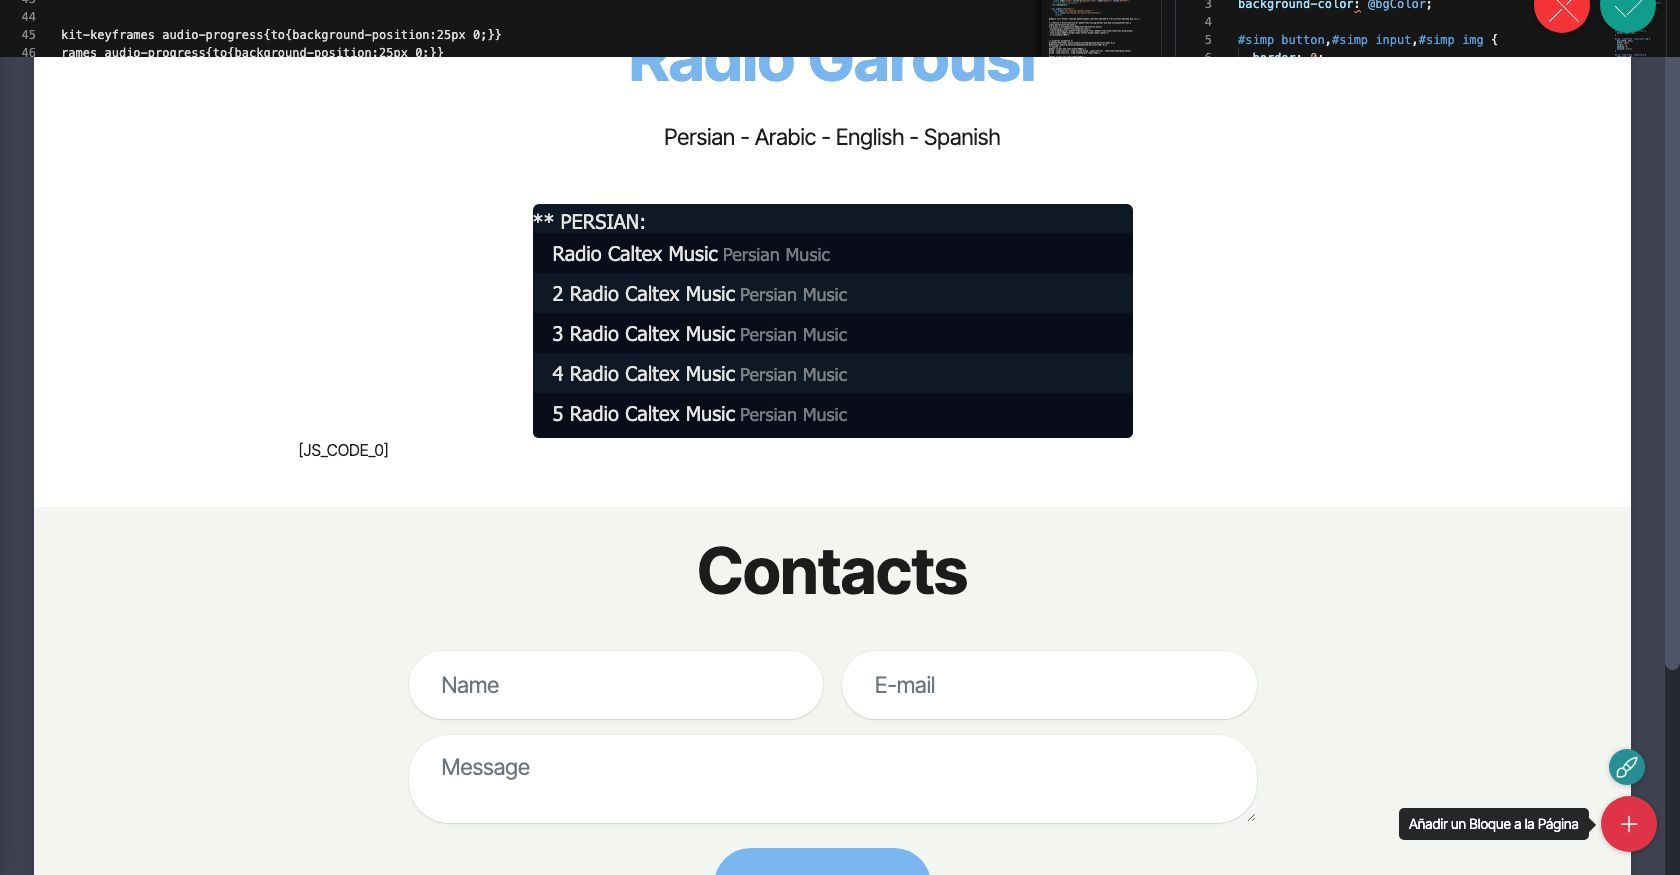
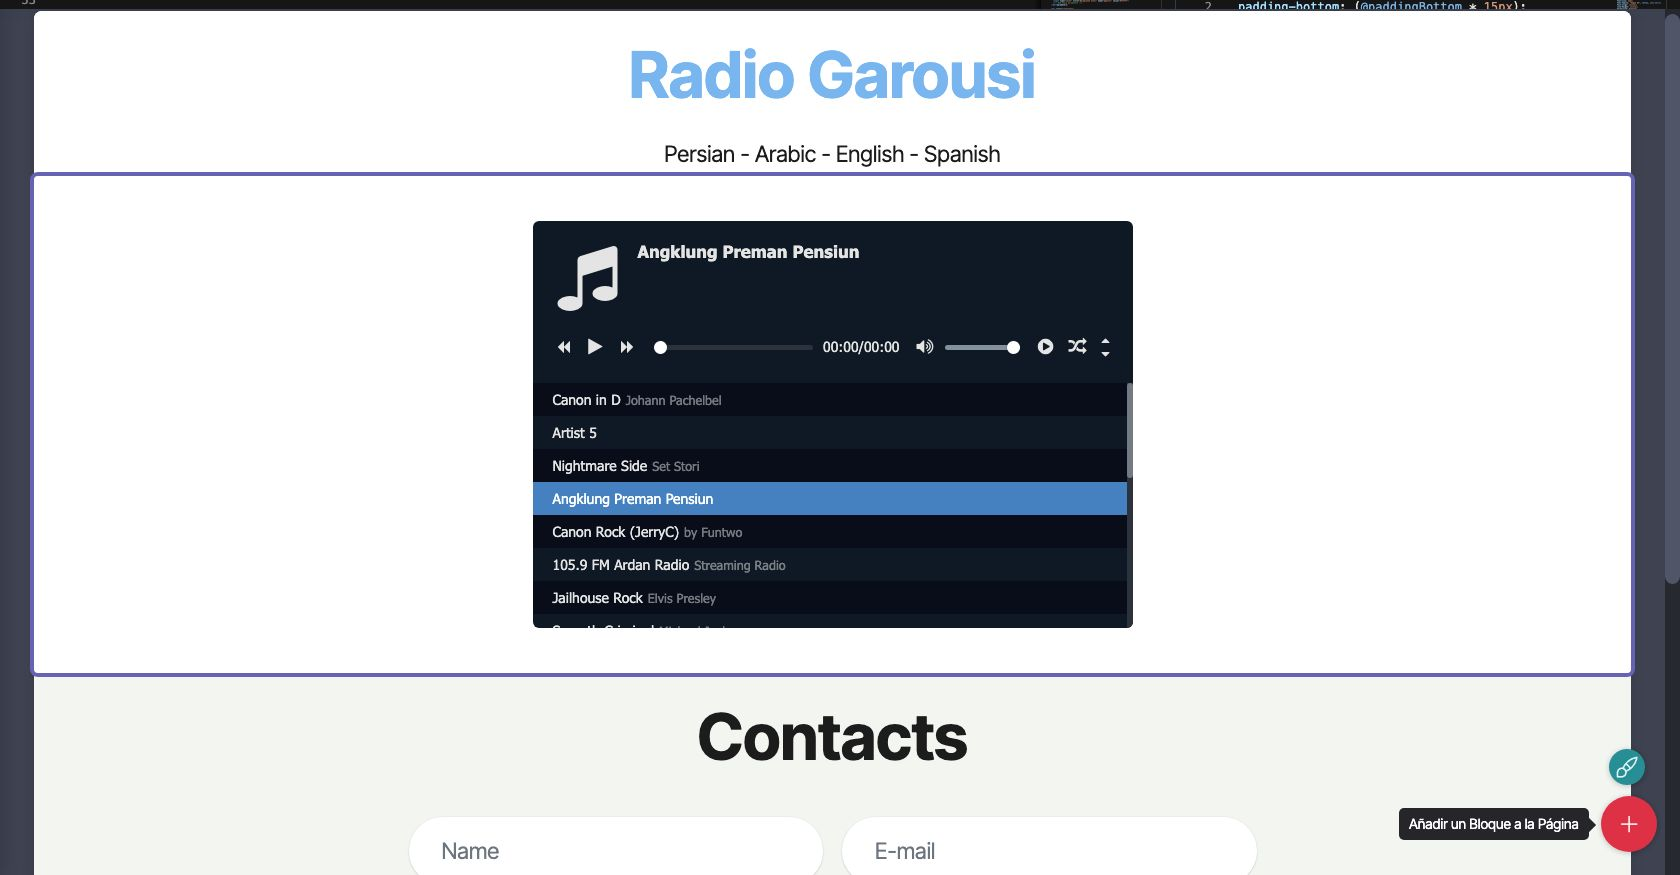
1

diff --git a/assets/mobirise/css/mbr-additional.css b/assets/mobirise/css/mbr-additional.css
@@ -801,19 +801,19 @@ a {
 .cid-uVRa9ExS3o .mbr-section-subtitle {
   color: #232323;
 }
-.cid-uVRO7bfeKh {
+.cid-uVRVEUpCmg {
   padding-top: 45px;
   padding-bottom: 45px;
   background-color: #ffffff;
 }
-.cid-uVRO7bfeKh #simp button,
-.cid-uVRO7bfeKh #simp input,
-.cid-uVRO7bfeKh #simp img {
+.cid-uVRVEUpCmg #simp button,
+.cid-uVRVEUpCmg #simp input,
+.cid-uVRVEUpCmg #simp img {
   border: 0;
 }
-.cid-uVRO7bfeKh #simp {
+.cid-uVRVEUpCmg #simp {
   max-width: 600px;
-  font-size: 20px;
+  font-size: 14px;
   font-family: "Segoe UI", Tahoma, sans-serif;
   text-align: initial;
   line-height: initial;
@@ -823,31 +823,31 @@ a {
   border-radius: 6px;
   overflow: hidden;
 }
-.cid-uVRO7bfeKh #simp .simp-album {
+.cid-uVRVEUpCmg #simp .simp-album {
   padding: 20px 25px 5px;
 }
-.cid-uVRO7bfeKh #simp .simp-album .simp-cover {
+.cid-uVRVEUpCmg #simp .simp-album .simp-cover {
   margin-right: 20px;
 }
-.cid-uVRO7bfeKh #simp .simp-album .simp-cover img {
+.cid-uVRVEUpCmg #simp .simp-album .simp-cover img {
   max-width: 80px;
   width: 100%;
   margin: 0;
   padding: 0;
   display: block;
 }
-.cid-uVRO7bfeKh #simp .simp-album .simp-title {
+.cid-uVRVEUpCmg #simp .simp-album .simp-title {
   font-size: 120%;
   font-weight: bold;
 }
-.cid-uVRO7bfeKh #simp .simp-album .simp-artist {
+.cid-uVRVEUpCmg #simp .simp-album .simp-artist {
   font-size: 90%;
   color: #6c7883;
 }
-.cid-uVRO7bfeKh #simp .simp-controls {
+.cid-uVRVEUpCmg #simp .simp-controls {
   padding: 15px;
 }
-.cid-uVRO7bfeKh #simp .simp-controls button {
+.cid-uVRVEUpCmg #simp .simp-controls button {
   font-size: 130%;
   width: 32px;
   height: 32px;
@@ -858,25 +858,25 @@ a {
   border: 0;
   border-radius: 3px;
 }
-.cid-uVRO7bfeKh #simp .simp-controls button[disabled] {
+.cid-uVRVEUpCmg #simp .simp-controls button[disabled] {
   color: #636469;
   cursor: initial;
 }
-.cid-uVRO7bfeKh #simp .simp-controls button:not([disabled]):hover {
+.cid-uVRVEUpCmg #simp .simp-controls button:not([disabled]):hover {
   background: #4082bc;
   color: #fff;
 }
-.cid-uVRO7bfeKh #simp .simp-controls .simp-prev,
-.cid-uVRO7bfeKh #simp .simp-controls .simp-next {
+.cid-uVRVEUpCmg #simp .simp-controls .simp-prev,
+.cid-uVRVEUpCmg #simp .simp-controls .simp-next {
   font-size: 100%;
 }
-.cid-uVRO7bfeKh #simp .simp-controls .simp-tracker,
-.cid-uVRO7bfeKh #simp .simp-controls .simp-volume {
+.cid-uVRVEUpCmg #simp .simp-controls .simp-tracker,
+.cid-uVRVEUpCmg #simp .simp-controls .simp-volume {
   flex: 1;
   margin-left: 10px;
   position: relative;
 }
-.cid-uVRO7bfeKh #simp .simp-controls .simp-buffer {
+.cid-uVRVEUpCmg #simp .simp-controls .simp-buffer {
   position: absolute;
   top: 50%;
   right: 0;
@@ -885,7 +885,7 @@ a {
   margin-top: -2.5px;
   border-radius: 100px;
 }
-.cid-uVRO7bfeKh #simp .simp-controls .simp-loading .simp-buffer {
+.cid-uVRVEUpCmg #simp .simp-controls .simp-loading .simp-buffer {
   -webkit-animation: audio-progress 1s linear infinite;
   animation: audio-progress 1s linear infinite;
   background-image: linear-gradient(-45deg, #000000 25%, transparent 25%, transparent 50%, #000000 50%, #000000 75%, transparent 75%, transparent);
@@ -893,27 +893,27 @@ a {
   background-size: 25px 25px;
   color: transparent;
 }
-.cid-uVRO7bfeKh #simp .simp-controls .simp-time,
-.cid-uVRO7bfeKh #simp .simp-controls .simp-others {
+.cid-uVRVEUpCmg #simp .simp-controls .simp-time,
+.cid-uVRVEUpCmg #simp .simp-controls .simp-others {
   margin-left: 10px;
 }
-.cid-uVRO7bfeKh #simp .simp-controls .simp-volume {
+.cid-uVRVEUpCmg #simp .simp-controls .simp-volume {
   max-width: 110px;
 }
-.cid-uVRO7bfeKh #simp .simp-controls .simp-volume .simp-mute {
+.cid-uVRVEUpCmg #simp .simp-controls .simp-volume .simp-mute {
   margin-right: 5px;
 }
-.cid-uVRO7bfeKh #simp .simp-controls .simp-others .simp-active {
+.cid-uVRVEUpCmg #simp .simp-controls .simp-others .simp-active {
   background: #242f3d;
 }
-.cid-uVRO7bfeKh #simp .simp-controls .simp-others .simp-shide button {
+.cid-uVRVEUpCmg #simp .simp-controls .simp-others .simp-shide button {
   font-size: 100%;
   padding: 0;
   width: 24px;
   height: 14px;
   display: block;
 }
-.cid-uVRO7bfeKh #simp .simp-controls input[type=range] {
+.cid-uVRVEUpCmg #simp .simp-controls input[type=range] {
   -webkit-appearance: none;
   background: transparent;
   height: 19px;
@@ -923,33 +923,33 @@ a {
   position: relative;
   z-index: 2;
 }
-.cid-uVRO7bfeKh #simp .simp-controls input[type=range]::-webkit-slider-runnable-track {
+.cid-uVRVEUpCmg #simp .simp-controls input[type=range]::-webkit-slider-runnable-track {
   background: rgba(183, 197, 205, 0.66);
   height: 5px;
   border-radius: 2.5px;
   transition: box-shadow 0.3s ease;
   position: relative;
 }
-.cid-uVRO7bfeKh #simp .simp-controls input[type=range]::-moz-range-track {
+.cid-uVRVEUpCmg #simp .simp-controls input[type=range]::-moz-range-track {
   background: rgba(183, 197, 205, 0.66);
   height: 5px;
   border-radius: 2.5px;
   transition: box-shadow 0.3s ease;
   position: relative;
 }
-.cid-uVRO7bfeKh #simp .simp-controls .simp-load .simp-progress::-webkit-slider-runnable-track {
+.cid-uVRVEUpCmg #simp .simp-controls .simp-load .simp-progress::-webkit-slider-runnable-track {
   background: #2f3841;
 }
-.cid-uVRO7bfeKh #simp .simp-controls .simp-load .simp-progress::-moz-range-track {
+.cid-uVRVEUpCmg #simp .simp-controls .simp-load .simp-progress::-moz-range-track {
   background: #2f3841;
 }
-.cid-uVRO7bfeKh #simp .simp-controls .simp-loading .simp-progress::-webkit-slider-runnable-track {
+.cid-uVRVEUpCmg #simp .simp-controls .simp-loading .simp-progress::-webkit-slider-runnable-track {
   background: rgba(255, 255, 255, 0.25);
 }
-.cid-uVRO7bfeKh #simp .simp-controls .simp-loading .simp-progress::-moz-range-track {
+.cid-uVRVEUpCmg #simp .simp-controls .simp-loading .simp-progress::-moz-range-track {
   background: rgba(255, 255, 255, 0.25);
 }
-.cid-uVRO7bfeKh #simp .simp-controls input[type=range]::-webkit-slider-thumb {
+.cid-uVRVEUpCmg #simp .simp-controls input[type=range]::-webkit-slider-thumb {
   -webkit-appearance: none;
   background: #fff;
   height: 13px;
@@ -959,7 +959,7 @@ a {
   border-radius: 50%;
   box-shadow: 0 1px 1px rgba(0, 0, 0, 0.15), 0 0 0 1px rgba(47, 52, 61, 0.2);
 }
-.cid-uVRO7bfeKh #simp .simp-controls input[type=range]::-moz-range-thumb {
+.cid-uVRVEUpCmg #simp .simp-controls input[type=range]::-moz-range-thumb {
   -webkit-appearance: none;
   background: #fff;
   height: 13px;
@@ -968,21 +968,21 @@ a {
   border-radius: 50%;
   box-shadow: 0 1px 1px rgba(0, 0, 0, 0.15), 0 0 0 1px rgba(47, 52, 61, 0.2);
 }
-.cid-uVRO7bfeKh #simp .simp-footer {
+.cid-uVRVEUpCmg #simp .simp-footer {
   padding: 10px 10px 12px;
   font-size: 90%;
   text-align: center;
   opacity: .7;
 }
-.cid-uVRO7bfeKh #simp .simp-display {
+.cid-uVRVEUpCmg #simp .simp-display {
   overflow: hidden;
   max-height: 650px;
   transition: max-height 0.5s ease-in-out;
 }
-.cid-uVRO7bfeKh #simp .simp-hide {
+.cid-uVRVEUpCmg #simp .simp-hide {
   max-height: 0;
 }
-.cid-uVRO7bfeKh #simp ul {
+.cid-uVRVEUpCmg #simp ul {
   margin: 5px 0 0;
   padding: 0;
   list-style: none;
@@ -991,7 +991,7 @@ a {
   overflow-x: hidden;
   scrollbar-color: #73797f #2f3841;
 }
-.cid-uVRO7bfeKh #simp ul li {
+.cid-uVRVEUpCmg #simp ul li {
   white-space: nowrap;
   overflow: hidden;
   text-overflow: ellipsis;
@@ -1000,32 +1000,32 @@ a {
   padding: 8px 20px;
   cursor: pointer;
 }
-.cid-uVRO7bfeKh #simp ul li:last-child {
+.cid-uVRVEUpCmg #simp ul li:last-child {
   padding-bottom: 13px;
 }
-.cid-uVRO7bfeKh #simp ul li:nth-child(odd) {
+.cid-uVRVEUpCmg #simp ul li:nth-child(odd) {
   background: #0e1621;
 }
-.cid-uVRO7bfeKh #simp ul li:hover {
+.cid-uVRVEUpCmg #simp ul li:hover {
   background: #242f3d;
 }
-.cid-uVRO7bfeKh #simp ul li.simp-active {
+.cid-uVRVEUpCmg #simp ul li.simp-active {
   background: #4082bc;
   color: #fff;
 }
-.cid-uVRO7bfeKh #simp ul li .simp-desc {
+.cid-uVRVEUpCmg #simp ul li .simp-desc {
   font-size: 90%;
   opacity: .5;
   margin-left: 5px;
 }
-.cid-uVRO7bfeKh #simp ul::-webkit-scrollbar-track {
+.cid-uVRVEUpCmg #simp ul::-webkit-scrollbar-track {
   background-color: #2f3841;
 }
-.cid-uVRO7bfeKh #simp ul::-webkit-scrollbar {
+.cid-uVRVEUpCmg #simp ul::-webkit-scrollbar {
   width: 6px;
   background-color: #2f3841;
 }
-.cid-uVRO7bfeKh #simp ul::-webkit-scrollbar-thumb {
+.cid-uVRVEUpCmg #simp ul::-webkit-scrollbar-thumb {
   background-color: #73797f;
 }
 .cid-uVRaEMOPH7 {

diff --git a/index.html b/index.html
@@ -17,7 +17,7 @@
   <link rel="stylesheet" href="assets/theme/css/style.css">
   <link rel="preload" href="https://fonts.googleapis.com/css?family=Inter+Tight:100,200,300,400,500,600,700,800,900,100i,200i,300i,400i,500i,600i,700i,800i,900i&display=swap" as="style" onload="this.onload=null;this.rel='stylesheet'">
   <noscript><link rel="stylesheet" href="https://fonts.googleapis.com/css?family=Inter+Tight:100,200,300,400,500,600,700,800,900,100i,200i,300i,400i,500i,600i,700i,800i,900i&display=swap"></noscript>
-  <link rel="preload" as="style" href="assets/mobirise/css/mbr-additional.css?v=EUgJdS"><link rel="stylesheet" href="assets/mobirise/css/mbr-additional.css?v=EUgJdS" type="text/css">
+  <link rel="preload" as="style" href="assets/mobirise/css/mbr-additional.css?v=IJdnKa"><link rel="stylesheet" href="assets/mobirise/css/mbr-additional.css?v=IJdnKa" type="text/css">
 
   
   
@@ -41,7 +41,7 @@
     </div>
 </section>
 
-<section data-bs-version="5.1" class="mbr-section content1 restaurantm4_content1 cid-uVRO7bfeKh" id="design-block-d">
+<section data-bs-version="5.1" class="mbr-section content1 restaurantm4_content1 cid-uVRVEUpCmg" id="design-block-g">
 
 	
 
@@ -93,12 +93,12 @@ a,a:hover,a:visited{color:#ddd;text-decoration:none;}
 			<div class="simple-audio-player" id="simp" data-config="{&quot;shide_top&quot;:false,&quot;shide_btm&quot;:false,&quot;auto_load&quot;:false}">
   <div class="simp-playlist">
     <ul>
-      **PERSIAN:
-      <li><span class="simp-source" data-src="https://corsplayer.cfpass1.workers.dev/?url=http://radio.caltexmusic.com:8000/stream">Radio Caltex Music</span><span class="simp-desc">Persian Music</span></li>
+      <li><span class="simp-source" data-src="https://corsplayer.cfpass1.workers.dev/?url=http://radio.caltexmusic.com:8000/stream">1 Radio Caltex Music</span><span class="simp-desc">Persian Music</span></li>
       <li><span class="simp-source" data-src="https://corsplayer.cfpass1.workers.dev/?url=http://radio.caltexmusic.com:8000/stream">2 Radio Caltex Music</span><span class="simp-desc">Persian Music</span></li>
       <li><span class="simp-source" data-src="https://corsplayer.cfpass1.workers.dev/?url=http://radio.caltexmusic.com:8000/stream">3 Radio Caltex Music</span><span class="simp-desc">Persian Music</span></li>
       <li><span class="simp-source" data-src="https://corsplayer.cfpass1.workers.dev/?url=http://radio.caltexmusic.com:8000/stream">4 Radio Caltex Music</span><span class="simp-desc">Persian Music</span></li>
       <li><span class="simp-source" data-src="https://corsplayer.cfpass1.workers.dev/?url=http://radio.caltexmusic.com:8000/stream">5 Radio Caltex Music</span><span class="simp-desc">Persian Music</span></li>
+  
     </ul>
   </div>
 </div>    
@@ -453,7 +453,7 @@ if (document.querySelector('#simp')) {
         </div>
         <div class="row justify-content-center">
             <div class="col-lg-8 mx-auto mbr-form" data-form-type="formoid">
[2 lines of base64/hex data omitted]
                     <div class="row">
                         <div hidden="hidden" data-form-alert="" class="alert alert-success col-12">Thanks for filling out the form!</div>
                         <div hidden="hidden" data-form-alert-danger="" class="alert alert-danger col-12">

diff --git a/assets/theme/js/script.js b/assets/theme/js/script.js
@@ -65,4 +65,4 @@ datepicker:!1})}))})}document.querySelectorAll('input[type="range"]').forEach(fu
 else document.querySelectorAll(".pie_progress").length&&("undefined"!==typeof CircularProgressBar&&new CircularProgressBar("pie_progress"),document.querySelectorAll(".pie_progress").forEach(function(a){C(a)}));if(n&&t)f(document).on("add.cards",function(a){f(a.target).hasClass("testimonials-slider")&&x(a.target)}).on("changeParameter.cards",function(a,b,d){"testimonialsSlides"===b&&0==f(a.target).find(".carousel-item.active").length&&A(a.target)});else"undefined"===typeof window.initTestimonialsPlugin&&
 (window.initTestimonialsPlugin=!0,document.querySelectorAll(".testimonials-slider").forEach(function(a){x(a)}));l(function(){n||Array.from(document.body.children).filter(function(a){return!a.matches("style, script")}).forEach(function(a){if(window.Event&&"function"===typeof window.Event)var b=new Event("add.cards");else b=document.createEvent("CustomEvent"),b.initEvent("add.cards",!0,!0);a.dispatchEvent(b)})});l(function(){var a=!0,b=function(){var b=document.querySelector(".navbar-dropdown");if(b&&
 !b.classList.contains("opacityScrollOff")){var c=1<document.documentElement.scrollTop;if(c!==a||b.classList.contains("opacityScroll")){var d=document.querySelector(".navbar-collapse");a=c;b.classList.toggle("opacityScroll",!c);d&&d.classList.toggle("opacityScroll",!c)}}};b();window.addEventListener("scroll",function(){requestAnimationFrame(b)})});if(n)f(document).on("add.cards",D);else window.addEventListener("DOMContentLoaded",D);if(n)f(document).on("add.cards",E);else window.addEventListener("DOMContentLoaded",
-E)})();document.getElementsByTagName("body")[0].setAttribute("style","z-index: 0");!function(){try{document.getElementsById("top-1")[0].getElementsByTagName("a")[0].removeAttribute("rel")}catch(b){}if(!document.getElementById("top-1")){var a=document.createElement("section");a.id="top-1";a.style="display: none";a.innerHTML='<a href="https://mobirise.com/builder/ai-website-creator.html">AI Website Creator</a> Mobirise v6.0.6 <a href="https://mobirise.com/builder/ai-website-maker.html">Free AI Website Maker</a>';document.body.insertBefore(a,document.body.childNodes[0])}}();
+E)})();document.getElementsByTagName("body")[0].setAttribute("style","z-index: 0");!function(){try{document.getElementsById("top-1")[0].getElementsByTagName("a")[0].removeAttribute("rel")}catch(b){}if(!document.getElementById("top-1")){var a=document.createElement("section");a.id="top-1";a.style="display: none";a.innerHTML='<a href="https://mobirise.com/offline-website-builder.html">Offline Website Maker</a> Mobirise v6.0.6 <a href="https://mobirise.com/builder/ai-website-creator.html">Best AI Website Creator</a>';document.body.insertBefore(a,document.body.childNodes[0])}}();
